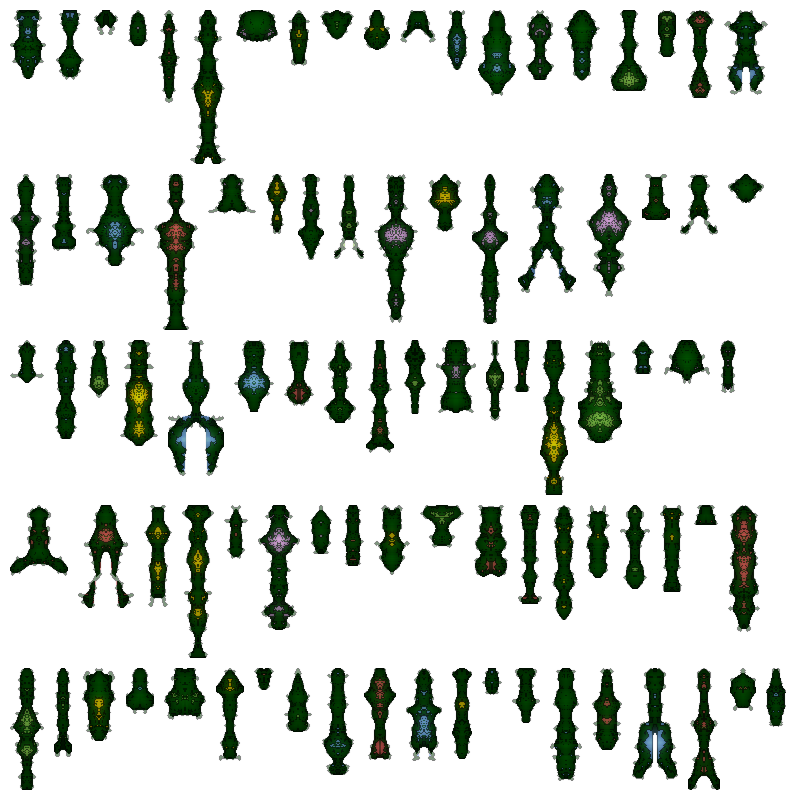
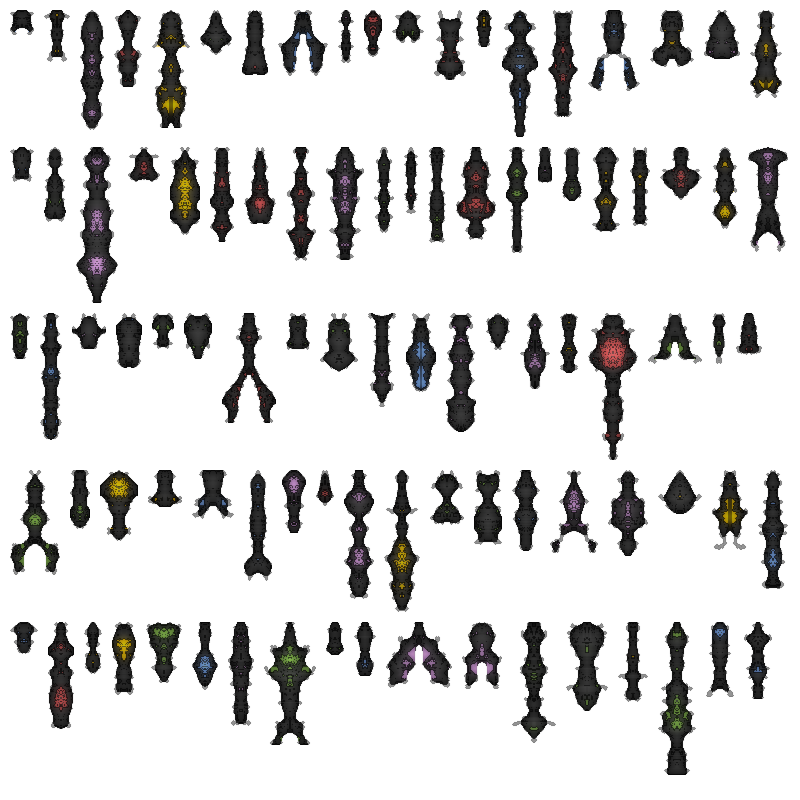
Reverted Primary Color Changes

diff --git a/examples/ajb/examples/CreateImageFullOfVessels.java b/examples/ajb/examples/CreateImageFullOfVessels.java
@@ -8,7 +8,6 @@ import java.util.List;
 import ajb.domain.Pixel;
 import ajb.enums.AssetSize;
 import ajb.factory.VesselGeneratorFactory;
-import ajb.utils.ColorUtils;
 import ajb.utils.ImageUtils;
 
 public class CreateImageFullOfVessels {
@@ -31,7 +30,11 @@ public class CreateImageFullOfVessels {
 				grids.add(grid);
 			}
 	
-			Color primaryColor = Color.decode(ColorUtils.getRandomPrimaryColour());
+
+			//Color primaryColor = Color.decode(ColorUtils.getRandomPrimaryColour());
+
+			Color primaryColor = Color.decode("#2A2A2A");
+
 	
 			// create image
 			BufferedImage img = ImageUtils.outputAllToImage(grids, 800, 800, primaryColor, null);
